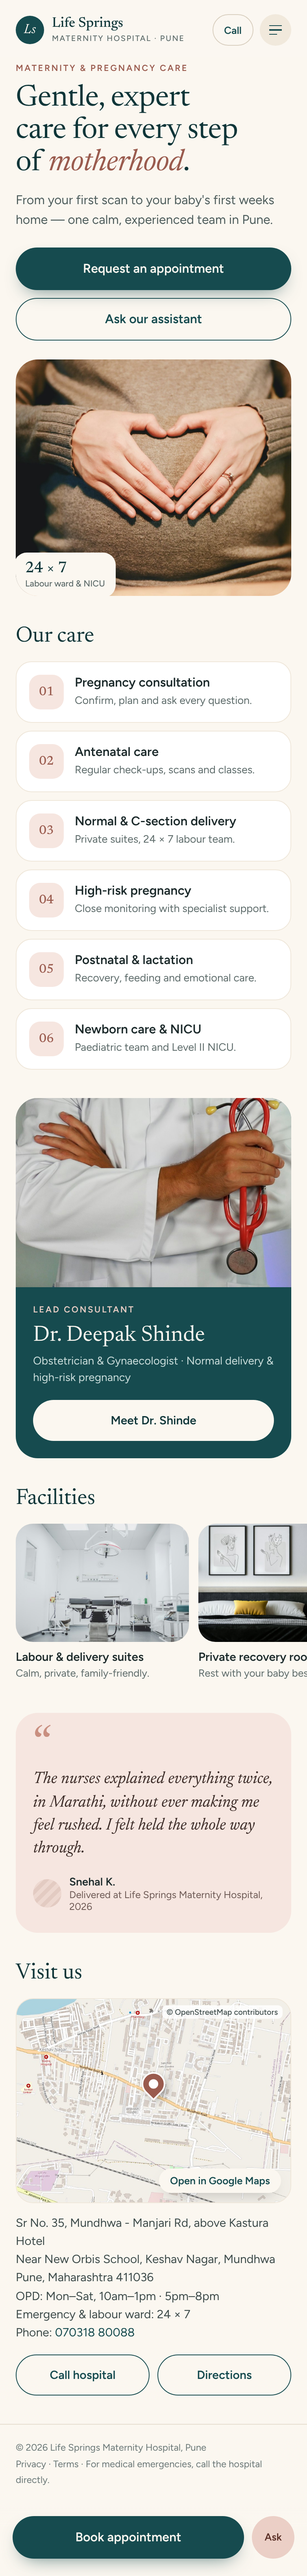
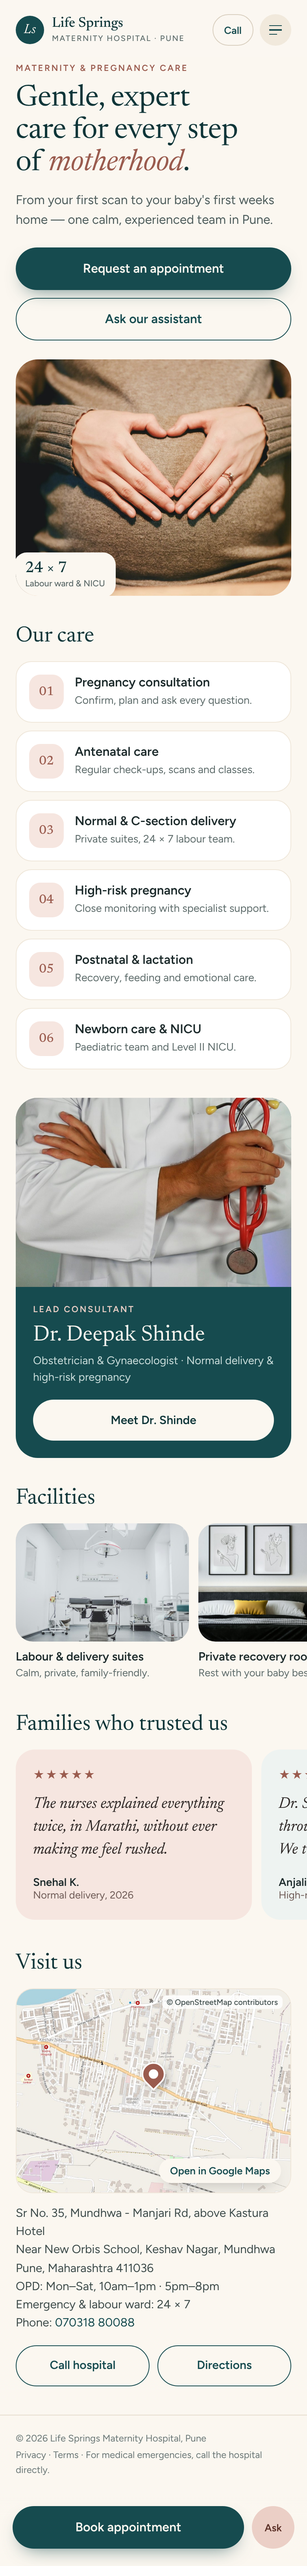
Show all three patient stories on phones
Phones only showed one featured story, so the other two were hidden.
Show all three in a row you swipe sideways (like Facilities); desktop
keeps its three-column grid. Remove the unused featured-story copy.

Claude-Session: https://claude.ai/code/session_01NWLtyDTtiiNpvRUc8nwXrr

diff --git a/src/pages/Home.tsx b/src/pages/Home.tsx
@@ -7,7 +7,7 @@ import { Eyebrow } from '../components/ui/Eyebrow';
 import { MapEmbed } from '../components/ui/MapEmbed';
 import { PhotoSlot } from '../components/ui/PhotoSlot';
 import { IMAGES } from '../data/images';
-import { DOCTOR, FACILITIES, FEATURED_STORY, HOSPITAL, SERVICES, TESTIMONIALS } from '../data/hospital';
+import { DOCTOR, FACILITIES, HOSPITAL, SERVICES, TESTIMONIALS } from '../data/hospital';
 import './Home.css';
 
 export function Home() {
@@ -138,36 +138,22 @@ export function Home() {
         </section>
 
         {/* Stories */}
-        <section id="stories" className="section container">
-          <figure className="story-feature only-mobile">
-            <div className="story-feature__mark" aria-hidden="true">
-              “
-            </div>
-            <blockquote className="story-feature__quote">{FEATURED_STORY.quote}</blockquote>
-            <figcaption className="story-feature__by">
-              <PhotoSlot tone="blush" className="story-feature__avatar" label="" />
-              <span>
-                <strong>{FEATURED_STORY.name}</strong>
-                <span>{FEATURED_STORY.detail}</span>
-              </span>
-            </figcaption>
-          </figure>
-
-          <div className="only-desktop">
-            <h2 className="section__title">Families who trusted us</h2>
-            <ul className="stories">
-              {TESTIMONIALS.map((t) => (
-                <li key={t.name} className={`story story--${t.tone}`}>
-                  <div className="story__stars" role="img" aria-label="5 out of 5 stars">
-                    ★★★★★
-                  </div>
-                  <blockquote className="story__quote">{t.quote}</blockquote>
-                  <div className="story__name">{t.name}</div>
-                  <div className="story__detail">{t.detail}</div>
-                </li>
-              ))}
-            </ul>
-          </div>
+        <section id="stories" className="section" aria-labelledby="stories-title">
+          <h2 id="stories-title" className="section__title container">
+            Families who trusted us
+          </h2>
+          <ul className="stories">
+            {TESTIMONIALS.map((t) => (
+              <li key={t.name} className={`story story--${t.tone}`}>
+                <div className="story__stars" role="img" aria-label="5 out of 5 stars">
+                  ★★★★★
+                </div>
+                <blockquote className="story__quote">{t.quote}</blockquote>
+                <div className="story__name">{t.name}</div>
+                <div className="story__detail">{t.detail}</div>
+              </li>
+            ))}
+          </ul>
         </section>
 
         {/* Visit */}

diff --git a/src/pages/Home.css b/src/pages/Home.css
@@ -411,62 +411,49 @@
 }
 
 /* ---------- Stories ---------- */
-.story-feature {
-  margin: 0;
-  background: var(--blush-100);
-  border-radius: var(--r-2xl);
-  padding: 26px 22px;
-}
-
-.story-feature__mark {
-  font: 400 60px/0.6 var(--font-serif);
-  color: var(--blush-500);
-}
-
-.story-feature__quote {
-  margin: 8px 0 0;
-  font: italic 400 21px/1.4 var(--font-serif);
-  color: var(--clay-ink);
-}
-
-.story-feature__by {
-  display: flex;
-  align-items: center;
-  gap: 10px;
-  margin-top: 18px;
-}
-
-.story-feature__by strong {
-  display: block;
-  font: 600 14px var(--font-sans);
-}
-
-.story-feature__by span span {
-  display: block;
-  font: 400 12.5px var(--font-sans);
-  color: var(--clay-muted);
-}
-
-.story-feature__avatar {
-  width: 36px;
-  height: 36px;
-  padding: 0;
-  border-radius: 50%;
-  flex: none;
-}
-
+/* Phones: a row you swipe sideways, like Facilities. Desktop: three columns. */
 .stories {
   list-style: none;
-  margin: 28px 0 0;
-  padding: 0;
-  display: grid;
-  grid-template-columns: repeat(3, 1fr);
-  gap: 16px;
+  margin: 0;
+  display: flex;
+  gap: 12px;
+  overflow-x: auto;
+  padding: 16px var(--gutter) 4px;
+  scroll-snap-type: x mandatory;
+  scroll-padding: 0 var(--gutter);
+}
+
+.stories .story {
+  flex: none;
+  width: min(300px, 82vw);
+  scroll-snap-align: start;
+}
+
+@media (min-width: 900px) {
+  .stories {
+    max-width: var(--page-max);
+    margin: 0 auto;
+    display: grid;
+    grid-template-columns: repeat(3, 1fr);
+    gap: 16px;
+    overflow: visible;
+    padding-top: 28px;
+  }
+
+  .stories .story {
+    width: auto;
+  }
 }
 
 .story {
   border-radius: var(--r-xl);
-  padding: 28px;
+  padding: 24px 22px;
+}
+
+@media (min-width: 900px) {
+  .story {
+    padding: 28px;
+  }
 }
 
 .story--blush {

diff --git a/src/data/hospital.ts b/src/data/hospital.ts
@@ -102,13 +102,6 @@ export const TESTIMONIALS: Testimonial[] = [
   },
 ];
 
-export const FEATURED_STORY = {
-  quote:
-    'The nurses explained everything twice, in Marathi, without ever making me feel rushed. I felt held the whole way through.',
-  name: 'Snehal K.',
-  detail: 'Delivered at Life Springs Maternity Hospital, 2026',
-};
-
 export const APPOINTMENT_TYPES = [
   'First pregnancy consultation',
   'Routine antenatal check-up',
